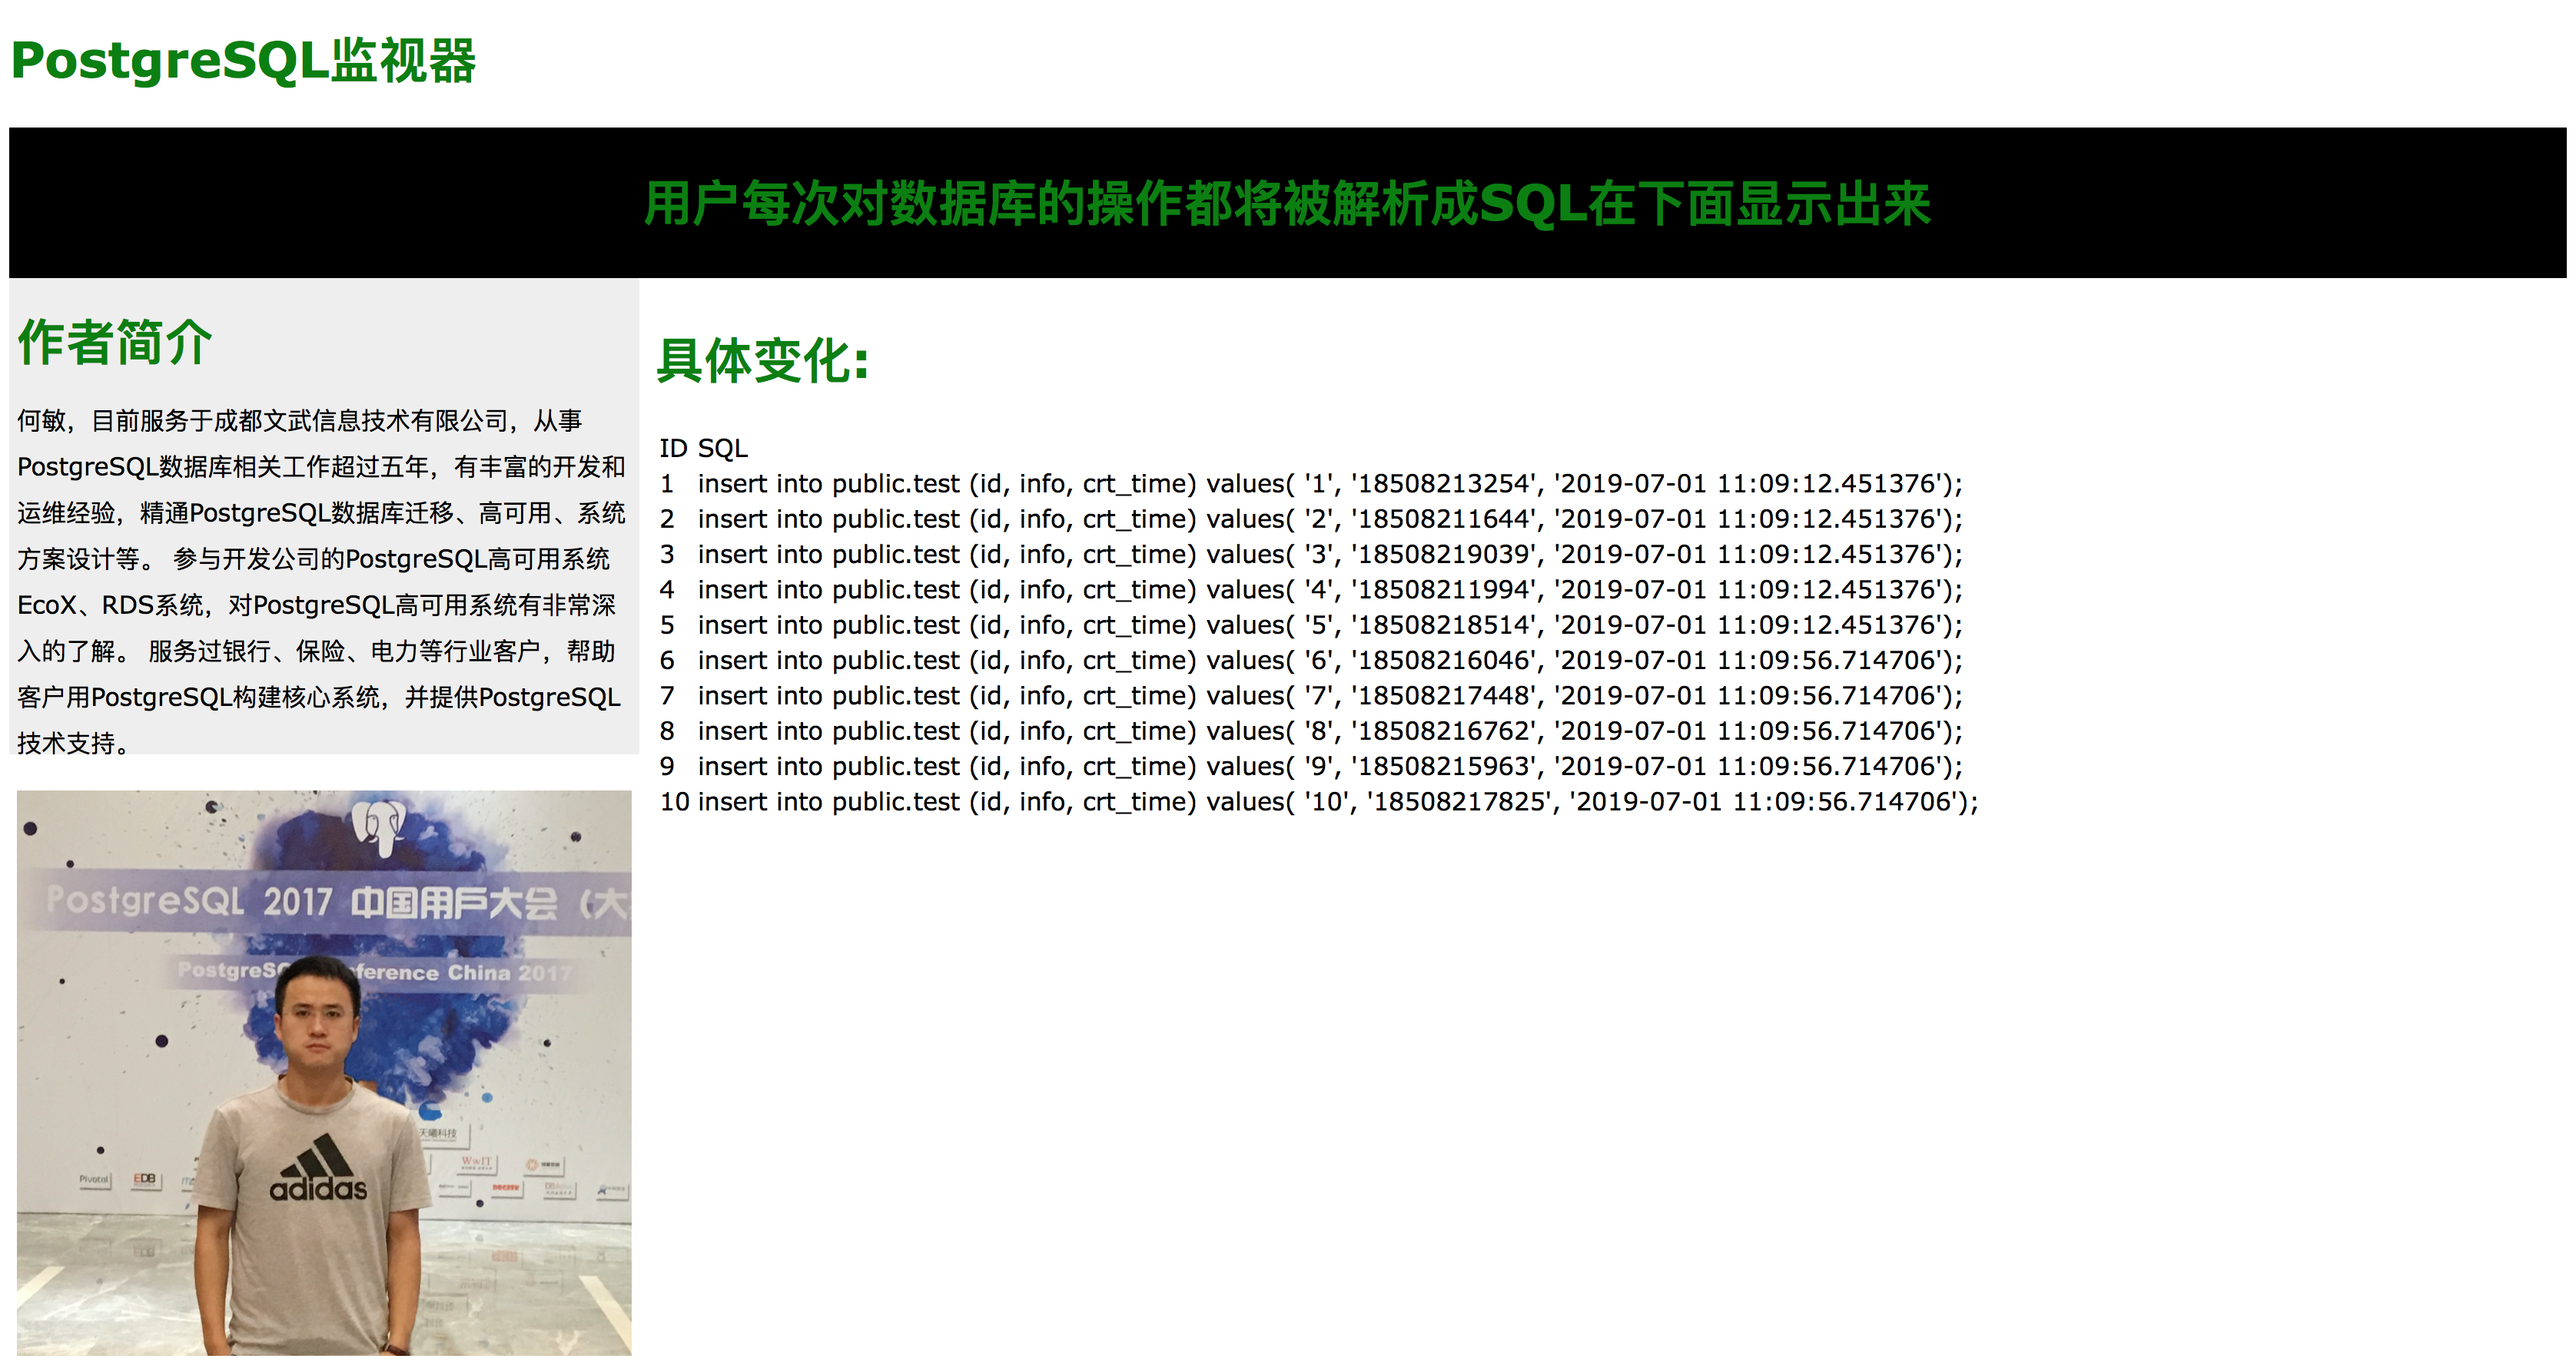
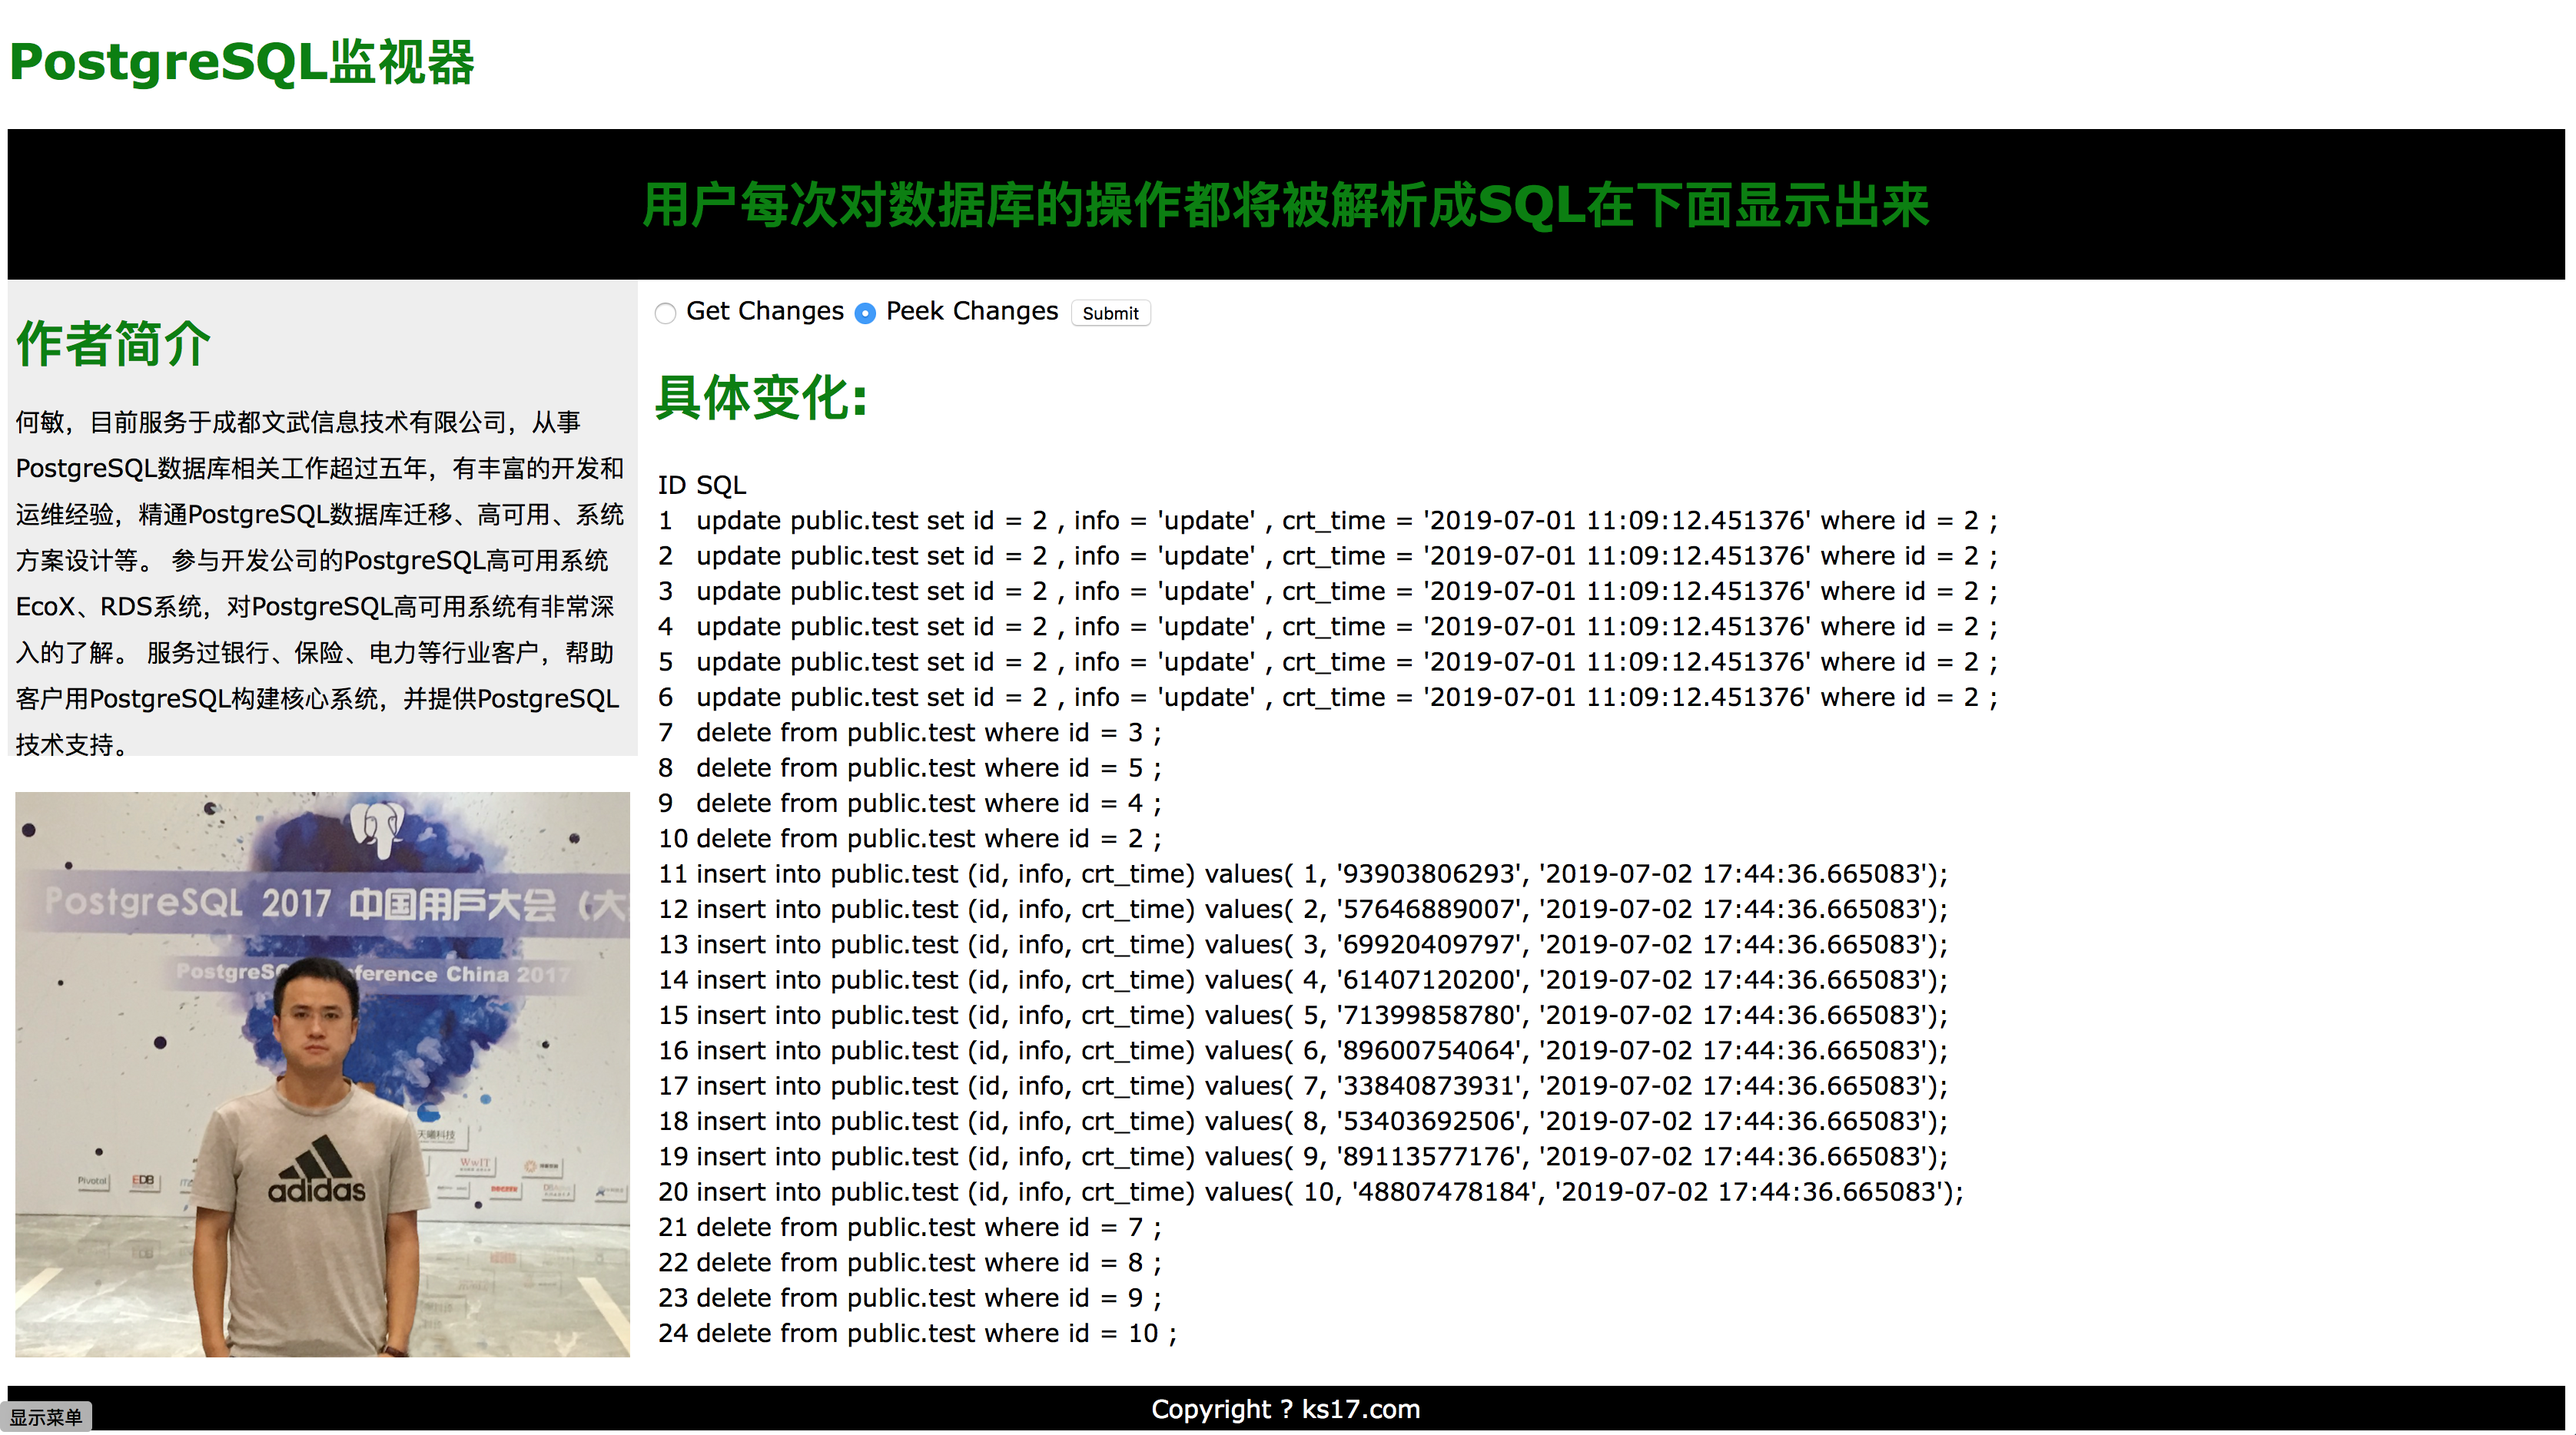
添加了delete和update解析结果，添加了获取变化的选项

Changed region(s): [[0.0, 0.1232, 1.0, 1.0], [0.0, 0.0308, 0.1862, 0.0924]]

diff --git a/modules/pghelper.js b/modules/pghelper.js
@@ -1,22 +1,37 @@
-//test for connect to pg using nodejs
+///***************************************************************
+///  @Filename: modules/pghelper.js
+///  @Brief: 对PostgreSQL数据库的SQL变化获取
+///   
+///  注意:
+///         1) 如果表没有创建主键，则无法探知他们的删除和更新变化 
+///  @Author: kuang17 min.he@ww-it.cn
+///  @Last modified: 2019-07-02 11:40
+///***************************************************************
+ 
 
 var pg = require('pg');
 var EventEmitter = require('events').EventEmitter;
 var sprintf = require('sprintf').sprintf;
 
-function query_pg(cb){
+function query_pg(change_type, cb){
     //var connInfo = "tcp://postgres:postgres@10.9.5.36:5432/postgres";
     var connInfo = "tcp://postgres:postgres@127.0.0.1:5433/postgres";
     var client = new pg.Client(connInfo);
     var sqls = [];
-    var numeric_types = ["integer, number, numeric, double, decimal"];
+    var numeric_types = ["integer", "number", "numeric", "double", "decimal"];
 
     client.connect(function(err) {
         if (err){
             return console.error("could not connect to pg server, err is: ", err);
         }
 
-        client.query("select data from pg_logical_slot_peek_changes('nodejs_use', NULL, NULL);", function (err, result){
+        var sql = "select data from pg_logical_slot_peek_changes('nodejs_use', NULL, NULL);";
+        if(change_type === "choose_get") {
+            sql = "select data from pg_logical_slot_get_changes('nodejs_use', NULL, NULL);";
+            console.log("use choose_get type sql change");
+        }
+
+        client.query(sql, function (err, result){
             if (err) {
                 return console.log(err);
             }
@@ -25,19 +40,20 @@ function query_pg(cb){
             result.rows.forEach(function (oneChange, index) {
                 //var ret = JSON.parse(result.rows[0].data);
                 var ret = JSON.parse(oneChange.data);
+                var isql;
                 //console.log(ret);
                 //console.log(ret.change);
                 //console.log(ret.change[0]);
                 ret.change.forEach(function (item, index) {
-                    if ( item.kind !== "insert" )
-                        console.log(item);
+                    //if ( item.kind !== "insert" )
+                    //    console.log(item);
 
                     //console.log(item.kind);
                     //console.log(item.columnnames);
                     if (item.kind == "insert") {
                         var col_count = item.columnnames.length;
                         //var isql_demo = "insert into public.test (id, info, crt_time) values (1, 'test', '2019-06-27')";
-                        var isql = sprintf("insert into %s.%s (", item.schema, item.table);
+                        isql = sprintf("insert into %s.%s (", item.schema, item.table);
                         //console.log(isql);
                         item.columnnames.forEach(function(col, index){
                             if (index === col_count -1) {
@@ -71,7 +87,75 @@ function query_pg(cb){
                         console.log(isql);
                         sqls.push(isql);
                     }
+                    
+                    if (item.kind === "delete") {
+                        //删除和更新只对有主键的表才有消息
+                        //在oldkeys中只记录了primary key 的变化，即使是使用非主键去删除，最后反应的也是对应主键的值来删除
+                        isql = sprintf("delete from %s.%s where ", item.schema, item.table); 
+                        item.oldkeys.keytypes.forEach(function (col_type, index){
+                            if (numeric_types.indexOf(col_type) !== -1){
+                                if (index === 0) {
+                                    isql += sprintf("%s = %d ", item.oldkeys.keynames[index], item.oldkeys.keyvalues[index]); 
+                                } else {
+                                    isql += sprintf("and %s = %d ", item.oldkeys.keynames[index], item.oldkeys.keyvalues[index]); 
+                                }
+                            } else {
+                                if (index === 0) {
+                                    isql += sprintf("%s = \'%s\' ", item.oldkeys.keynames[index], item.oldkeys.keyvalues[index]); 
+                                } else {
+                                    isql += sprintf("and %s = \'%s\' ", item.oldkeys.keynames[index], item.oldkeys.keyvalues[index]); 
+                                }
+                            }
+                        });
+                        isql += ";";
+                        console.log(isql);
+                        sqls.push(isql);
+                    }
 
+                    if (item.kind === "update") {
+                        console.log(item);
+                        var col_count = item.columnnames.length;
+                        isql = sprintf("update %s.%s set ", item.schema, item.table);
+                        item.columnnames.forEach(function(col, index){
+                            console.log(col);
+                            if (numeric_types.indexOf(item.columntypes[index]) !== -1){
+                                if (index !== col_count - 1) {
+                                    isql += sprintf("%s = %d , ", col, item.columnvalues[index]);
+                                } else {
+                                    isql += sprintf("%s = %d ", col, item.columnvalues[index]);
+                                }
+                            } else {
+                                if (index !== col_count - 1) {
+                                    console.log('test string');
+                                    isql += sprintf("%s = \'%s\' , ", col, item.columnvalues[index]);
+                                } else {
+                                    isql += sprintf("%s = \'%s\' ", col, item.columnvalues[index]);
+                                }
+                            }
+                            console.log(isql);
+                        });
+                        isql += "where ";
+                        col_count = item.oldkeys.keynames.length;
+                        item.oldkeys.keynames.forEach(function(col, index) {
+                            if (numeric_types.indexOf(item.oldkeys.keytypes[index]) !== -1){
+                                if (index < col_count -1) {
+                                    isql += sprintf("%s = %d and ", col, item.columnvalues[index]);
+                                } else {
+                                    isql += sprintf("%s = %d ", col, item.columnvalues[index]);
+                                }
+                            } else {
+                                if (index < col_count -1) {
+                                    isql += sprintf("%s = \'%s\' and ", col, item.columnvalues[index]);
+                                } else {
+                                    isql += sprintf("%s = \'%s\' ", col, item.columnvalues[index]);
+                                }
+                            }
+
+                        });
+                        isql += ";";
+                        console.log(isql);
+                        sqls.push(isql);
+                    }
 
                 });
                 //处理完每行的遍历

diff --git a/routes/index.js b/routes/index.js
@@ -8,9 +8,31 @@ router.get('/', function(req, res, next) {
 });
 
 router.get('/pgview', function(req, res, next) {
-    pghelper.query_pg(function (data){
-        res.render('show_change', { data: data });
+    var change_type = "choose_peek";
+    var choose_get = "false";
+    var choose_peek = "true";
+    pghelper.query_pg(change_type, function (data){
+        res.render('show_change', { data: data, get: choose_get, peek: choose_peek});
     });
+});
+
+router.post('/pgview/choose', function(req, res) {
+    console.log(req.body);
+
+    var change_type = "choose_peek";
+    var choose_peek = "true";
+    var choose_get = "false";
+    if (req.body.change_type === '1') {
+        change_type = "choose_get";
+        choose_get = "true";
+        choose_peek = "false";
+    }
+    console.log("change_type is: %s, choose_get value is: %s, choose_peek value is: %s", change_type, choose_get, choose_peek);
+
+    pghelper.query_pg(change_type, function (data){
+        res.render('show_change', { data: data, get: choose_get, peek: choose_peek });
+    });
+
 });
 
 /*http://localhost:3000/hello */

diff --git a/app.js b/app.js
@@ -53,6 +53,7 @@ app.put('/users/:username', function(req, res) {
     res.send('Done');
 });
 
+
 app.post('/users/:username', function(req, res) { 
     // 定义了一个post变量，用于暂存请求体的信息
    // var post = '';     

diff --git a/README.md b/README.md
@@ -1,5 +1,5 @@
 # pg_sqlviewer
 This is a SQL viewer for PostgreSQL, it will show the SQL which is using or used in database, and it will show the undo SQL if you want.
 
-#demo
+# demo
 ![test](./demo.png)
